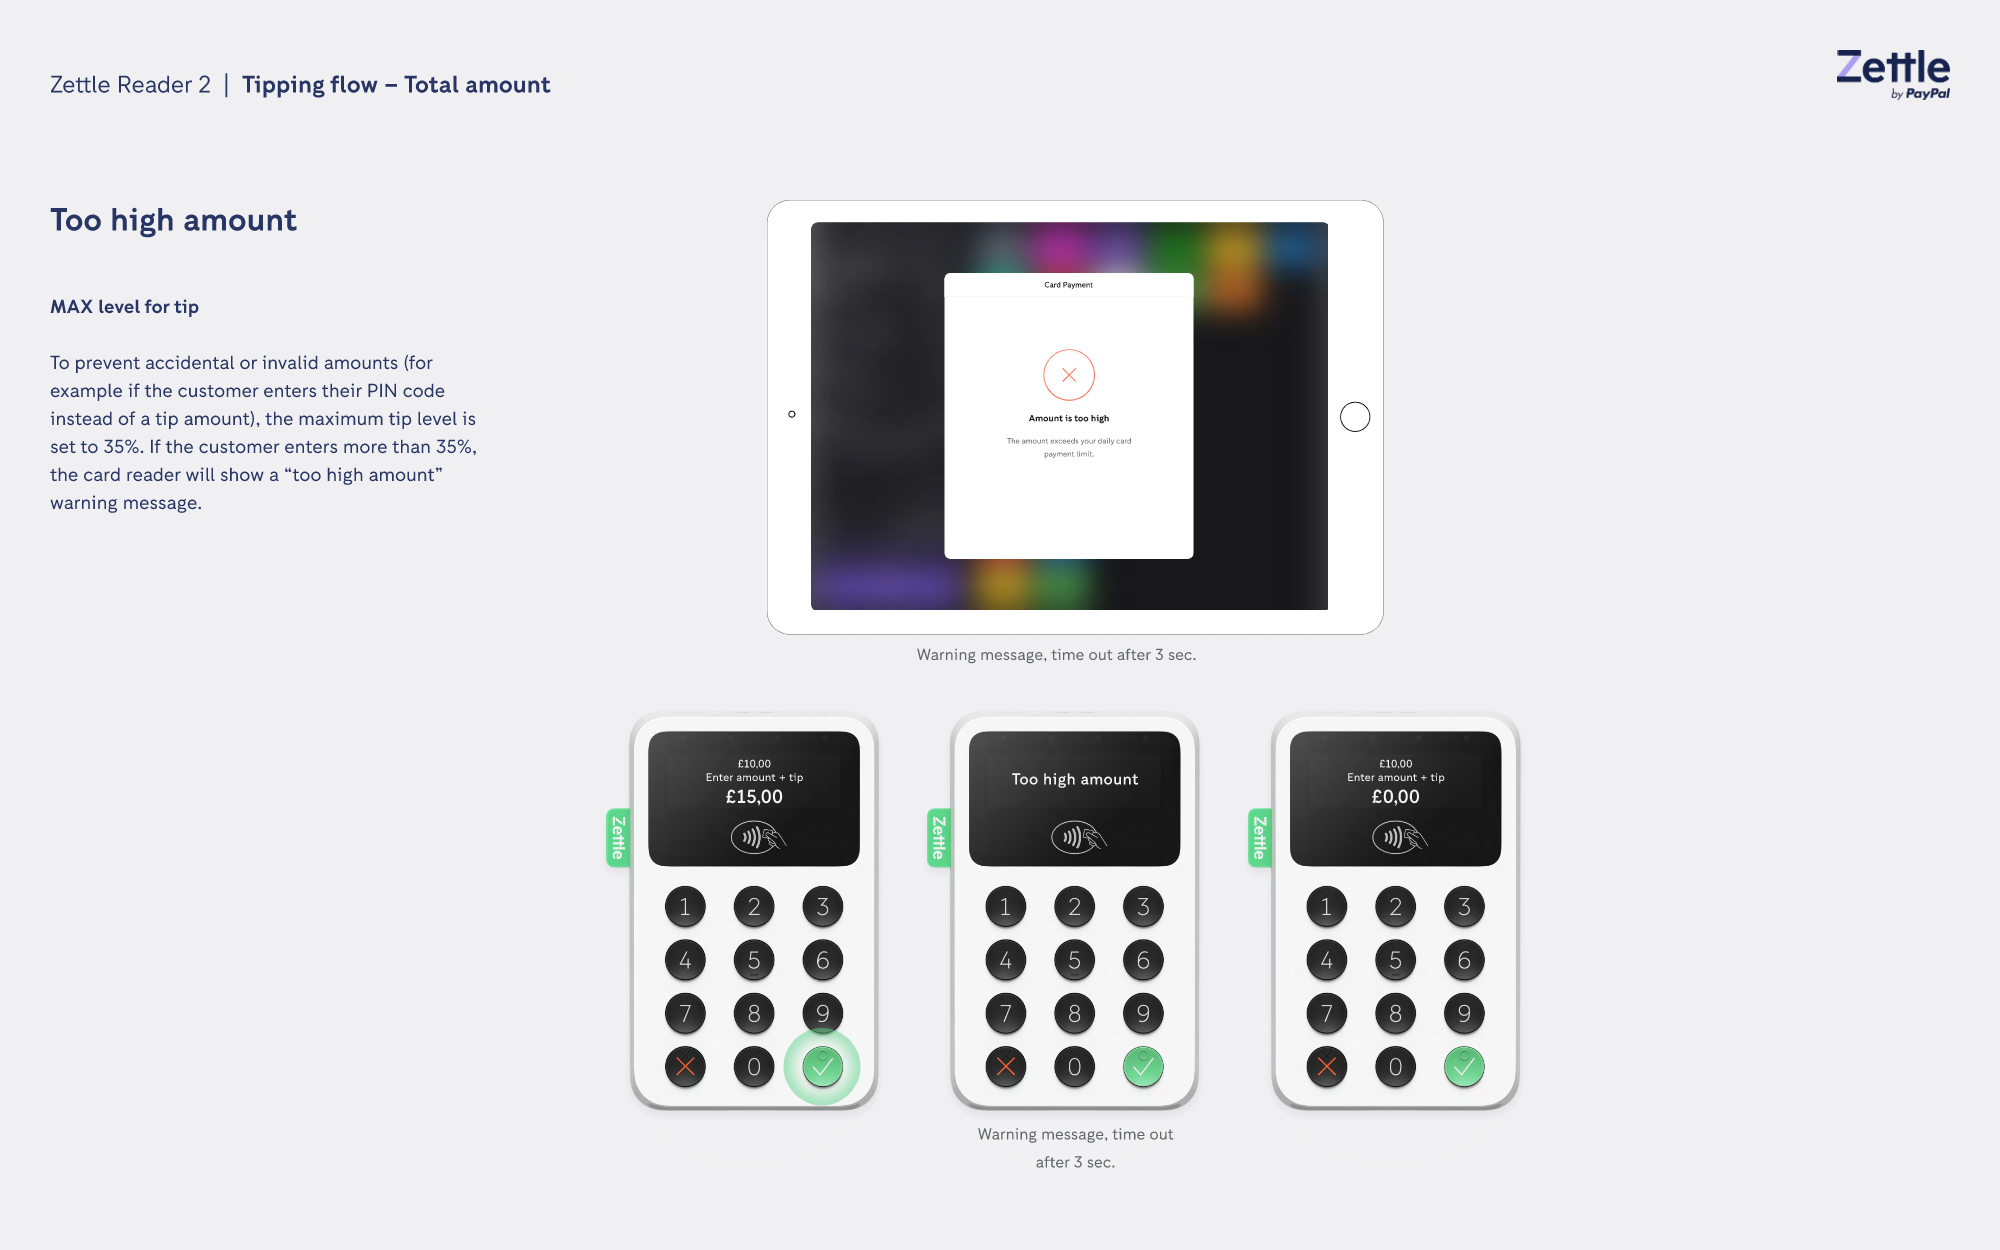
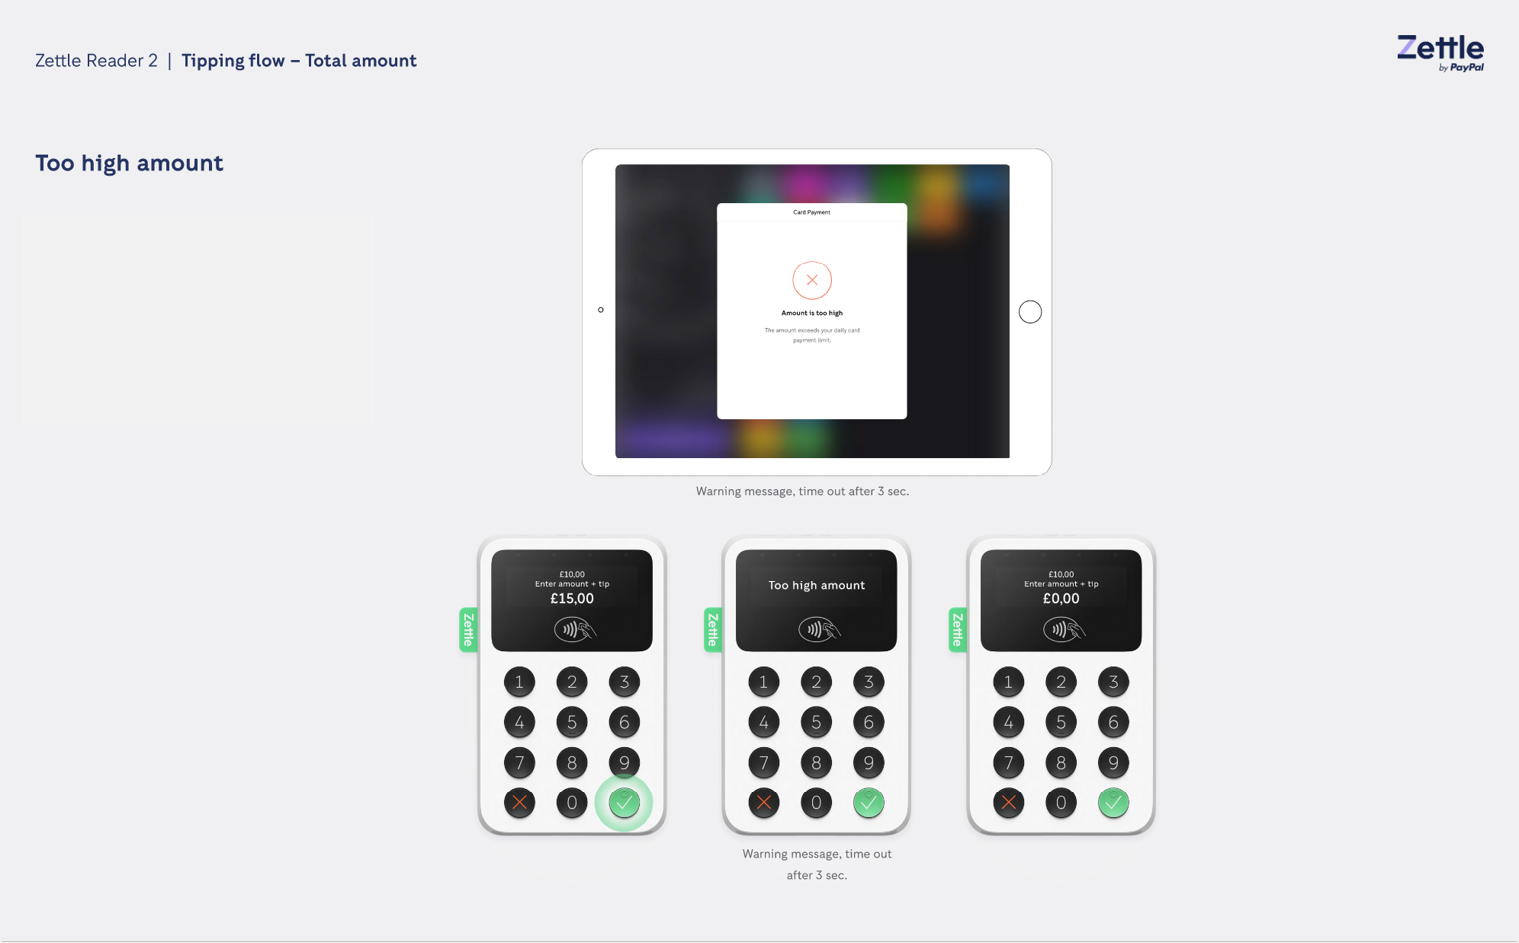
Update tipping levels (#376)
* Deleted image to be replaced

Deleted image to be replaced by new updated without text

* Deleted image to be replaced

Deleted image to be replaced by new updated without text

* Added updated images

Added new images without texts

* Added tipping levels

Updated "too high..." part with tipping levels

diff --git a/Documentation/Tipping_flow_on_the_Zettle_card_reader/Total Amount Tipping Flow.md b/Documentation/Tipping_flow_on_the_Zettle_card_reader/Total Amount Tipping Flow.md
@@ -20,7 +20,7 @@ The “total amount tipping flow” lets customers enter the total amount includ
 8. The “Approved” message displays on the card reader, followed by “Thank you”.<br>
 <br>![Total amount tipping flow steps 5-8](/Documentation/images/Total_Amount_3.png)<br>
 ## Tipping amount is too high
-There is a maximum level validation to prevent accidental or invalid entering of amounts. This can happen for example if customers enter their PIN code instead of a tip amount. If the maximum level is exceeded, the card reader will display a “Too high amount” warning message. The message will time out after three seconds.<br>
+There is a maximum level validation to prevent accidental or invalid entering of amounts. This can happen for example if customers enter their PIN code instead of a tip amount. The maximum limit for Europe is 50%, and 100% for the US. If this level is exceeded, the card reader will display a “Too high amount” warning message<br>
 <br>![Total amount tipping flow steps 5-8](/Documentation/images/Total_Amount_4.png)<br>
 ## Tipping amount is too low
 There is a minimum level validation to prevent accidental or invalid entering of amounts. If the tipping amount is less than the original payable amount, a “Too low amount” warning message displays. After a time out the customer can enter the total amount again.<br>
